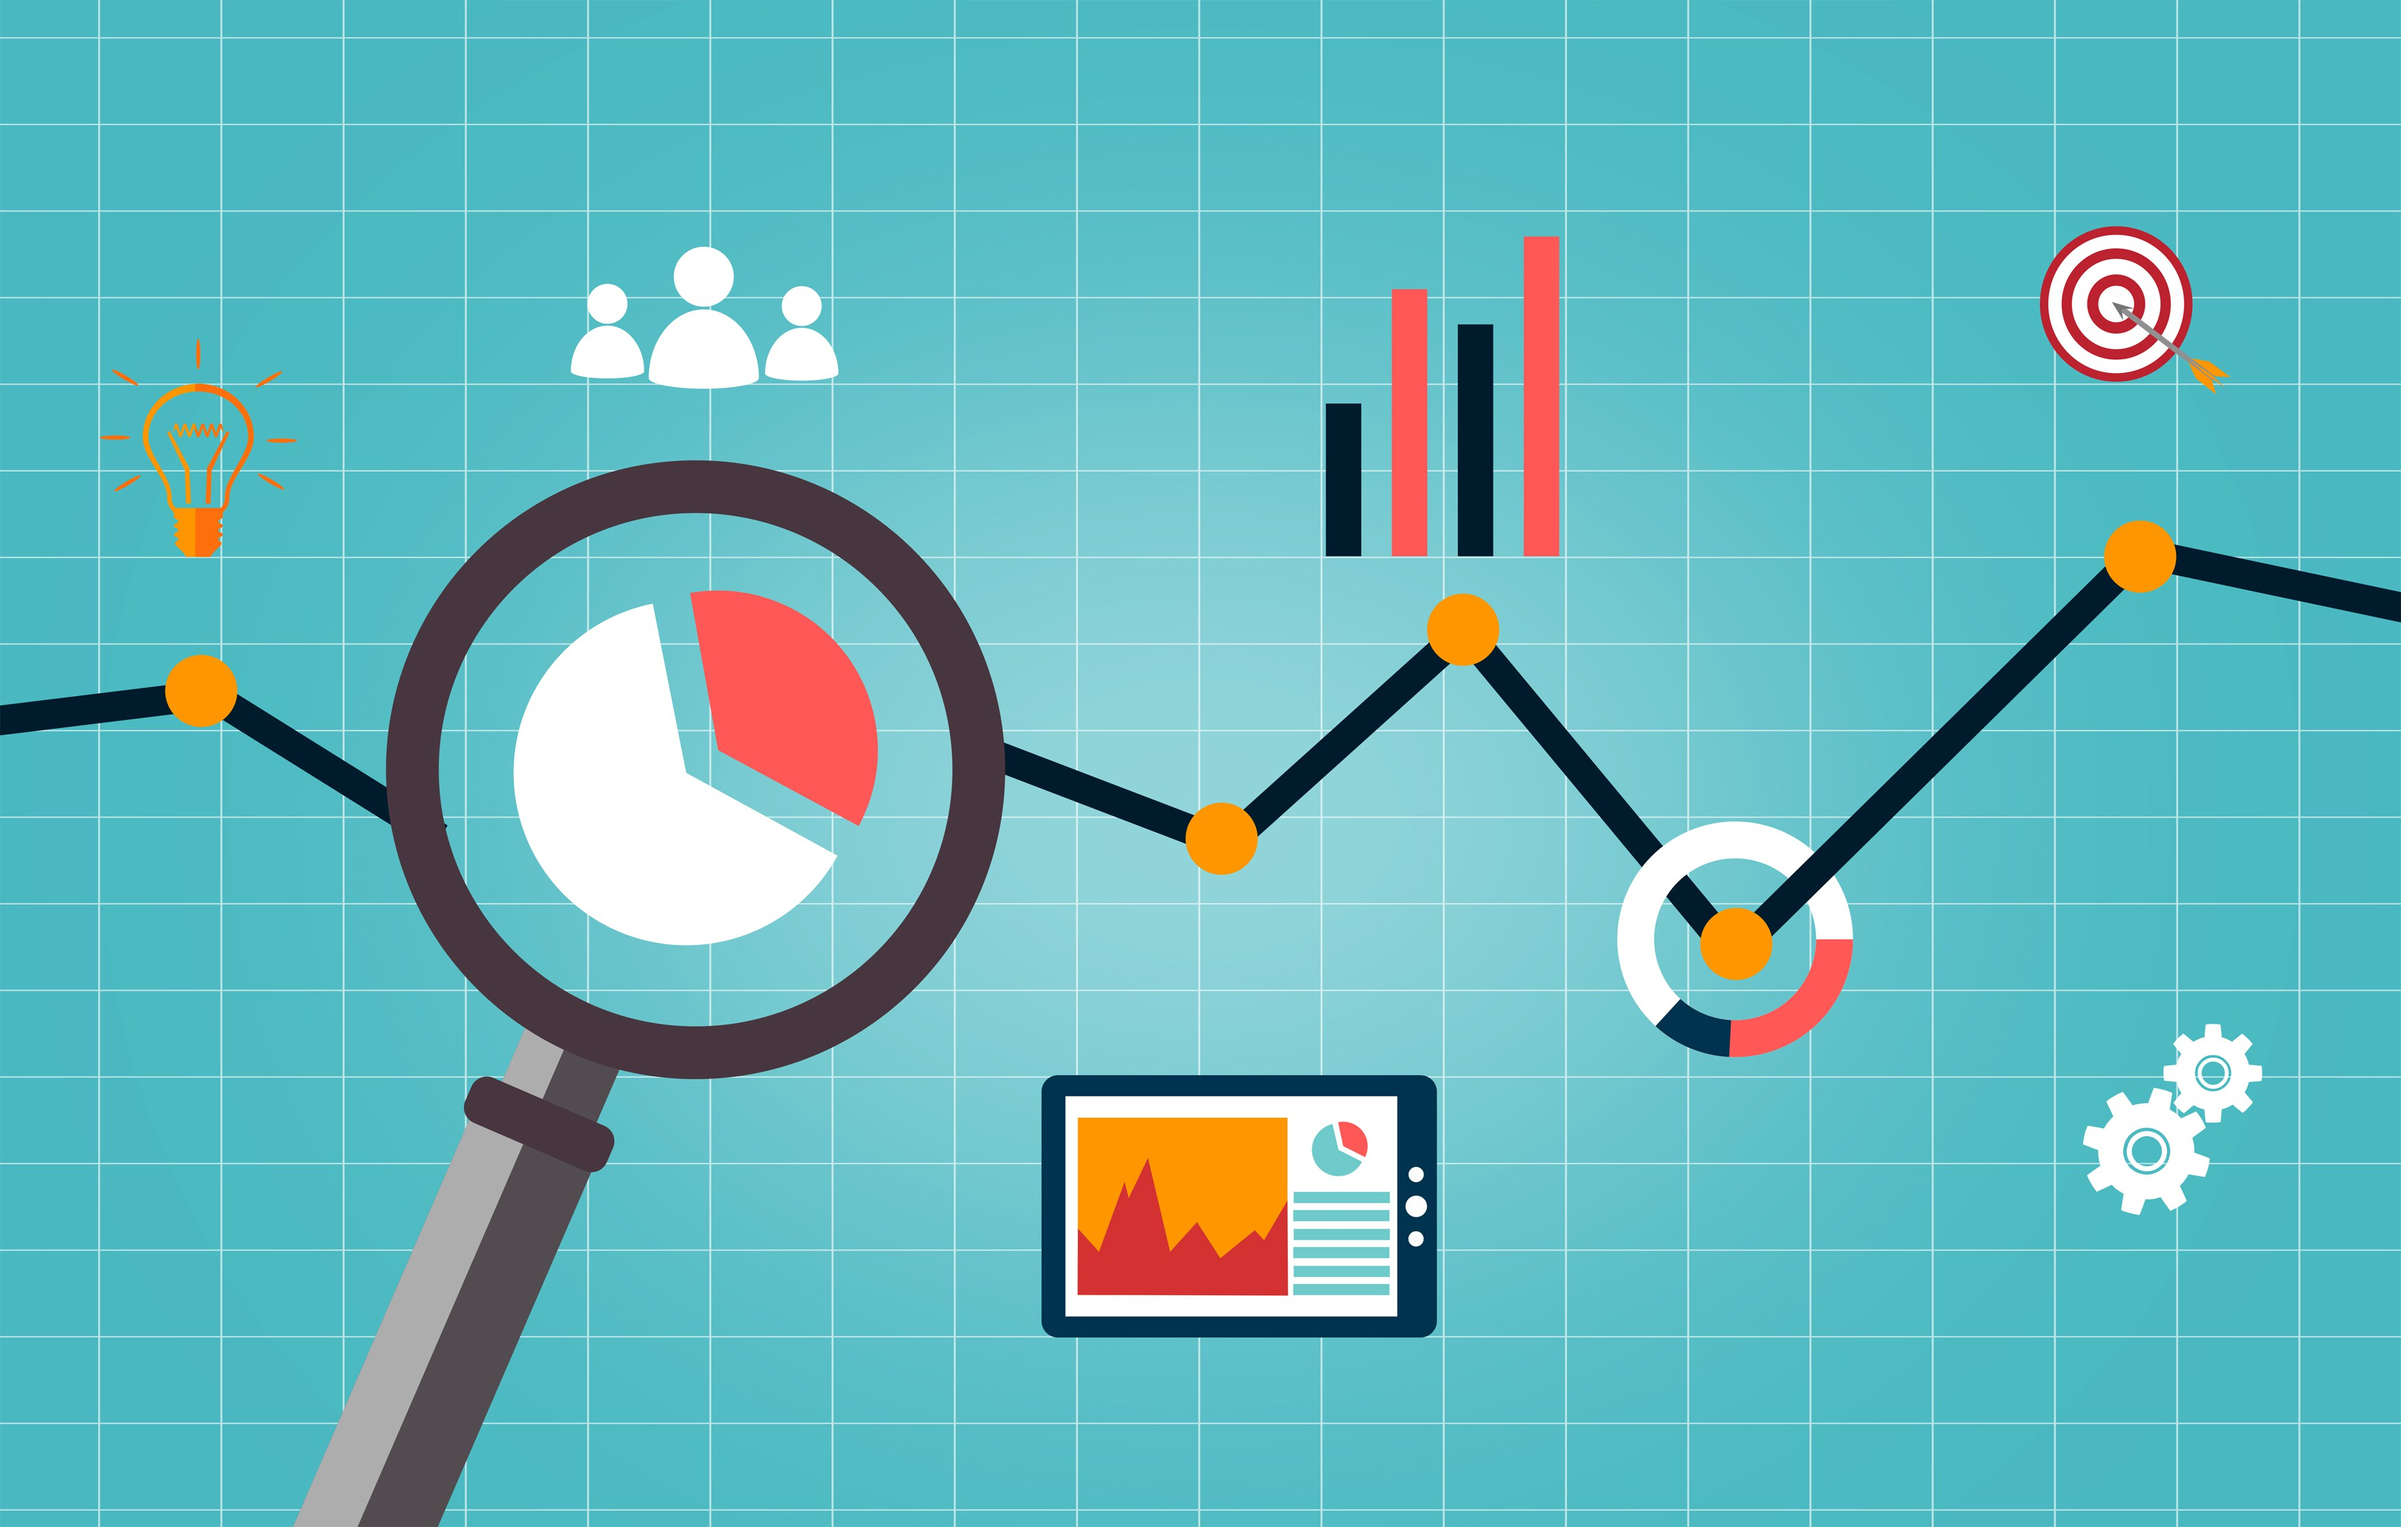
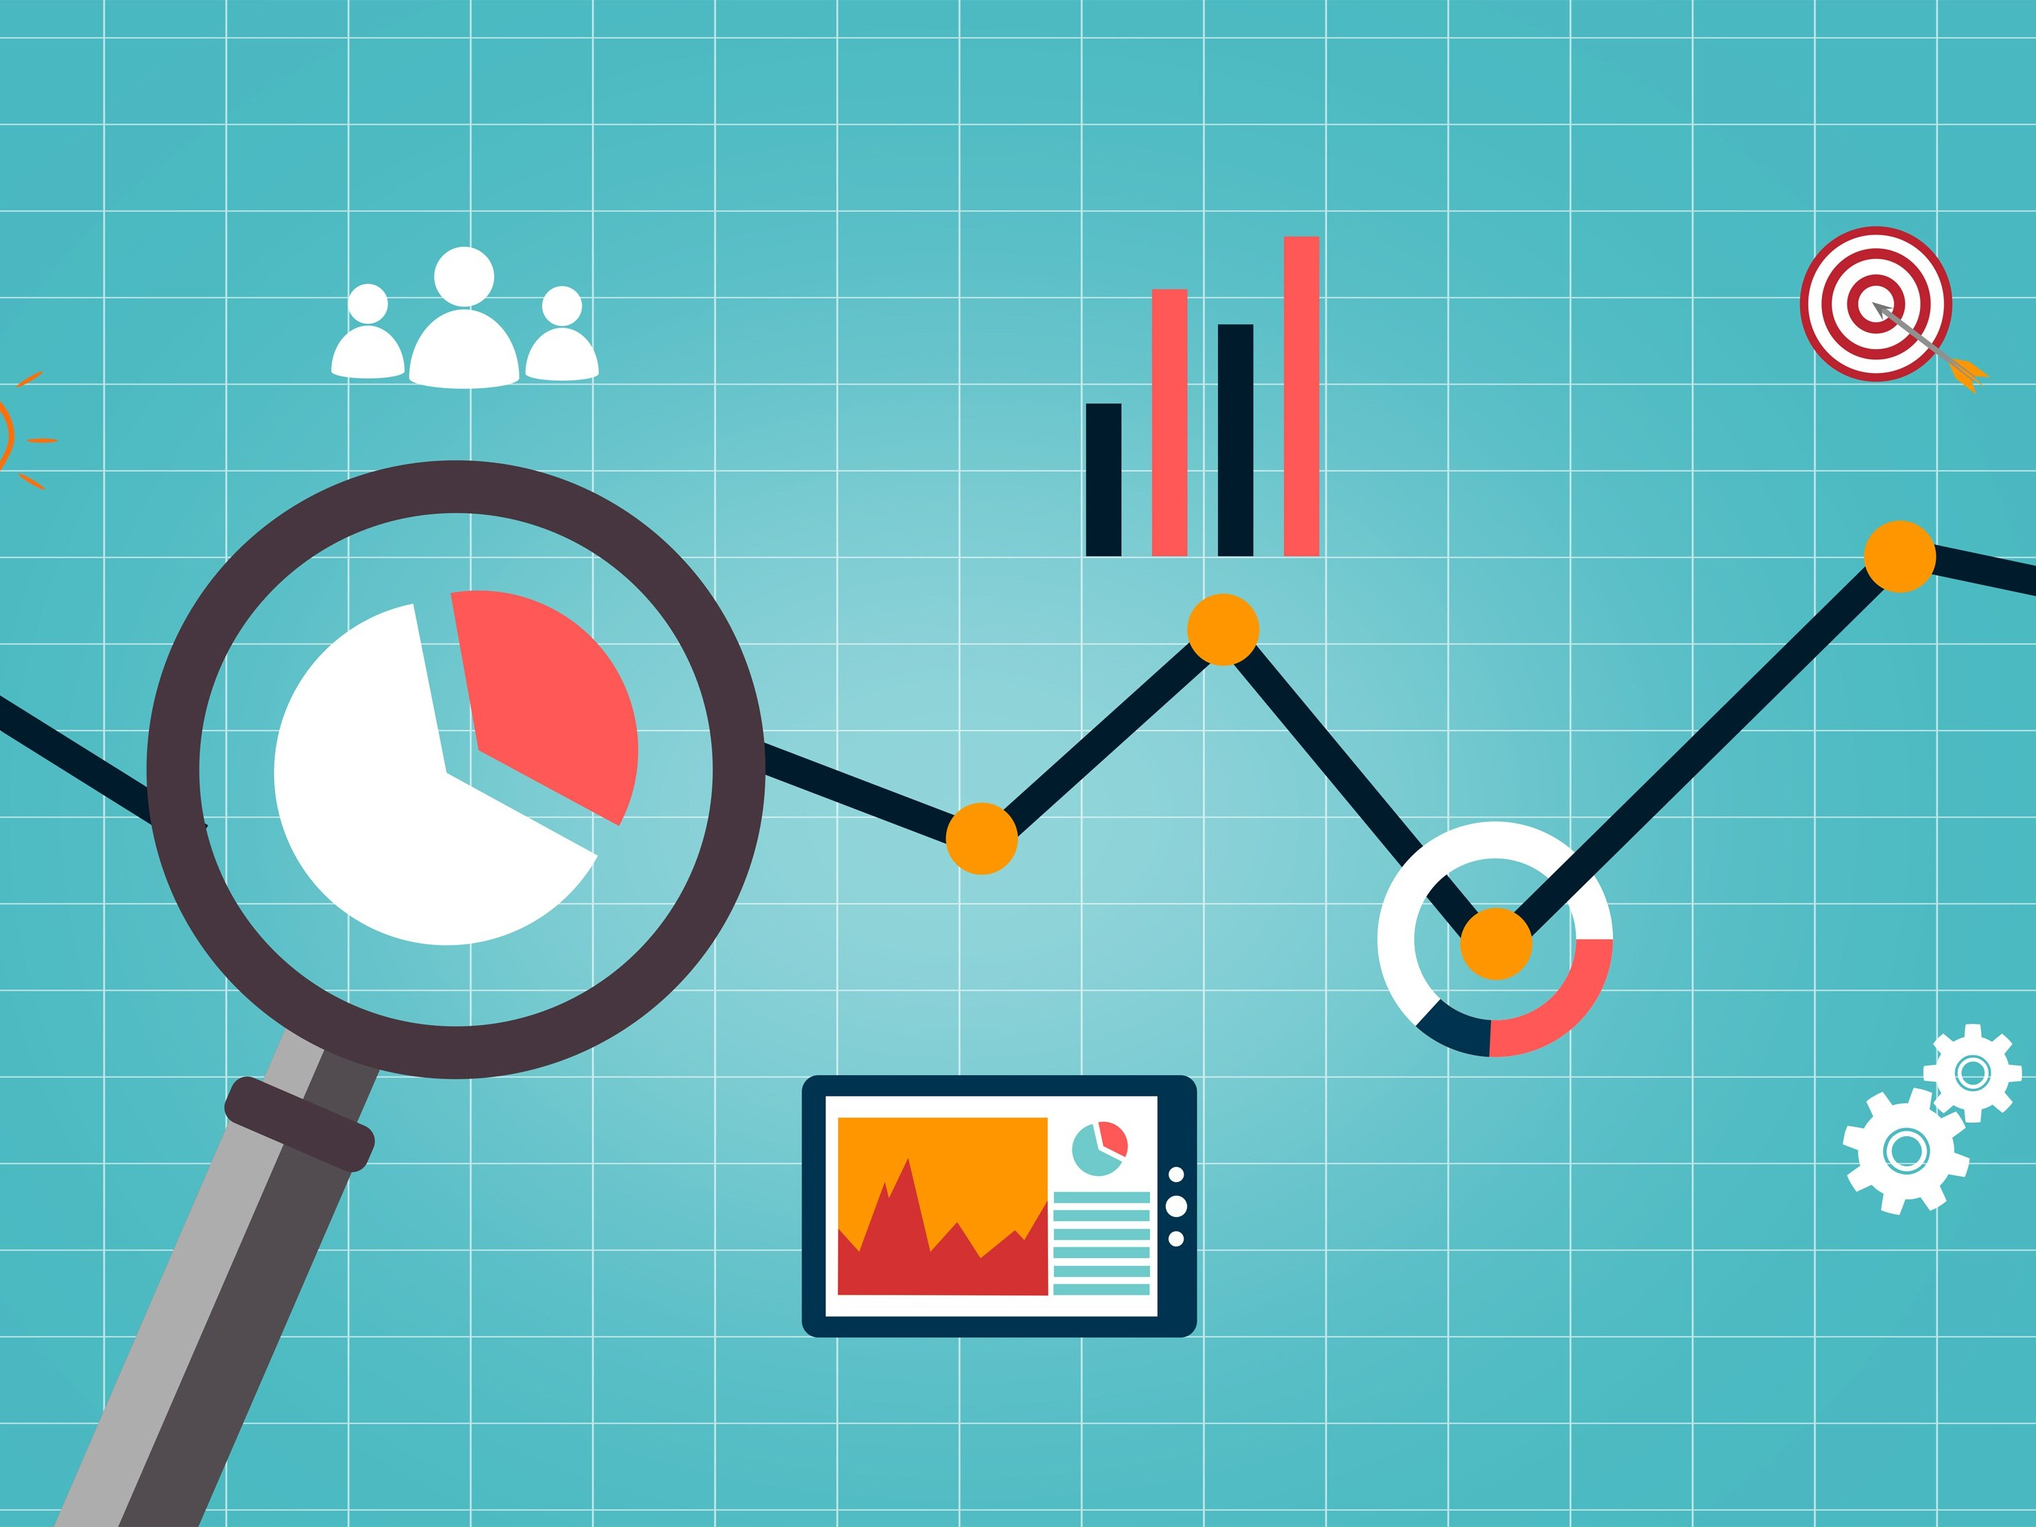
features section updated to fit image

diff --git a/src/app/features/features.component.html b/src/app/features/features.component.html
@@ -1,17 +1,25 @@
 <section class="container-fluid">
-  <ngb-carousel activeId [showNavigationIndicators]="true" [showNavigationArrows]="false" [interval]="1000">
+  <ngb-carousel activeId [showNavigationIndicators]="true" [showNavigationArrows]="false" [interval]="5000">
     <ng-template ngbSlide>
       <img src="assets/features/SearchImage.jpg" alt="">
       <div class="carousel-caption">
-        <h3>First slide label</h3>
+        <h3>Emerging Artists</h3>
         <p>Nulla vitae elit libero, a pharetra augue mollis interdum.</p>
       </div>
     </ng-template>
     <ng-template ngbSlide>
       <img src="assets/features/Analytics.jpg" alt="">
+      <div class="carousel-caption">
+        <h3>Kwler 360</h3>
+        <p>Nulla vitae elit libero, a pharetra augue mollis interdum.</p>
+      </div>
     </ng-template>
     <ng-template ngbSlide>
       <img src="assets/features/SingingGirl.jpg" alt="">
+      <div class="carousel-caption">
+        <h3>Kwler D.N.A.</h3>
+        <p>Nulla vitae elit libero, a pharetra augue mollis interdum.</p>
+      </div>
     </ng-template>
   </ngb-carousel>
 </section>

diff --git a/src/app/features/features.component.scss b/src/app/features/features.component.scss
@@ -7,12 +7,15 @@
   backface-visibility: visible;
 }
 
-.carousel-item img {
+img {
   height: 100%;
   width: 100%;
 }
 
-//Bootstrap Padding Fix
-[class*="col-"] {
-  padding: 1rem;
+.carousel-caption {
+  position: absolute;
+  top: 50%;
+  transform: translateY(-50%);
 }
+
+

diff --git a/src/styles.scss b/src/styles.scss
@@ -10,3 +10,13 @@ html, body {
   font-family: 'Poppins', sans-serif;
   color: #222;
 }
+
+//Bootstrap Padding Fix
+[class*="col-"] {
+  padding: 1rem;
+}
+
+.container-fluid {
+  padding-left: 0px;
+  padding-right: 0px;
+}
